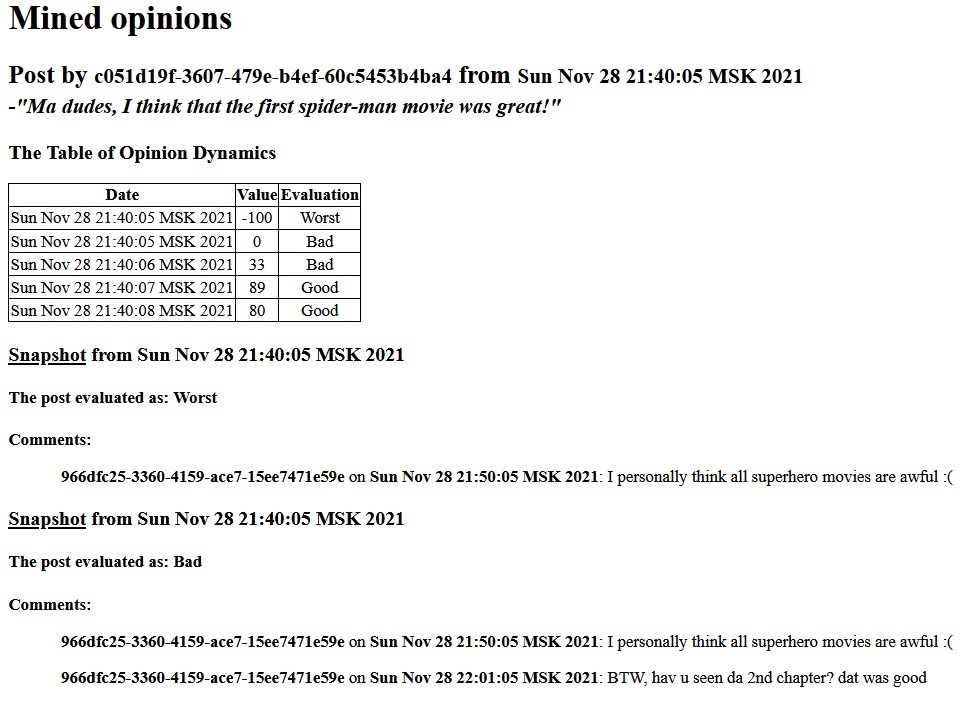
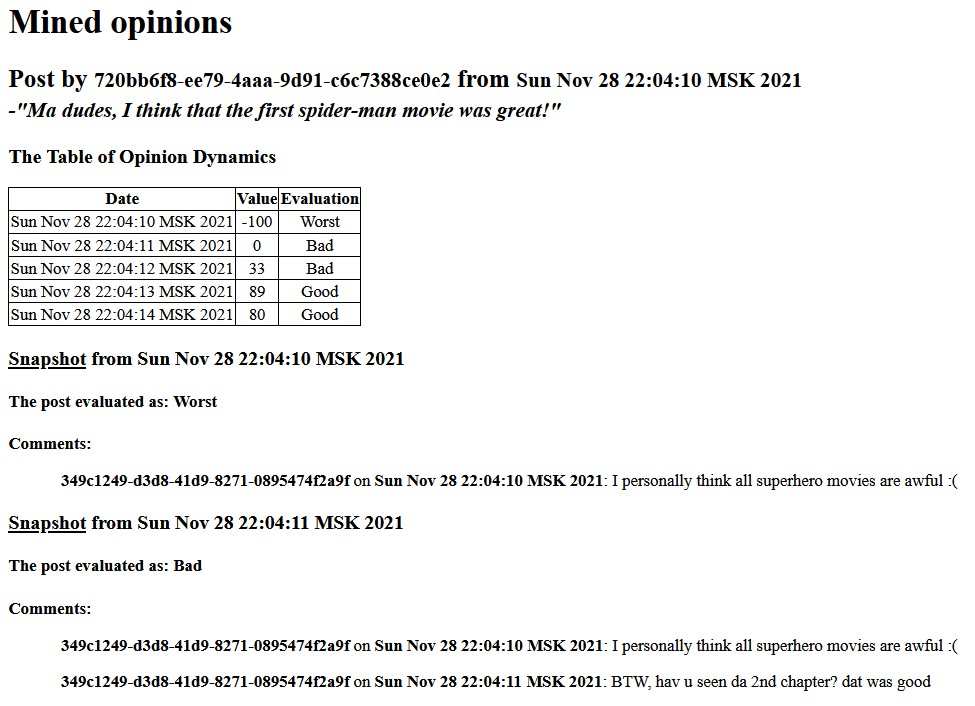
upd

diff --git a/CodeForAssignments1-2/src/Main.java b/CodeForAssignments1-2/src/Main.java
@@ -46,31 +46,26 @@ public class Main {
         //Likes act like multiplier of reactions. When one likes a comment it means they agree with that reaction
 
         Comment c1 = u2.createComment("I personally think all superhero movies are awful :(", post);
-        c1.date.setTime(post.date.getTime() + (10 * 60 * 1000));
         RPSS.makeSnapshot(post); //save state of the mined opinion
-        Thread.sleep(700);
+        Thread.sleep(1000);
 
         Comment c2 = u2.createComment("BTW, hav u seen da 2nd chapter? dat was good", post);
-        c2.date.setTime(post.date.getTime() + (21 * 60 * 1000));
         RPSS.makeSnapshot(post); //save state of the mined opinion
-        Thread.sleep(700);
+        Thread.sleep(1000);
 
         Comment c3 = u3.createComment("Man, the movie is really cool, just watched it on the last weekends", post);
-        c3.date.setTime(post.date.getTime() + (42 * 60 * 1000));
         RPSS.makeSnapshot(post); //save state of the mined opinion
-        Thread.sleep(700);
+        Thread.sleep(1000);
 
         //export history to a first file
         Files.write(Paths.get("output1.json"),RPSS.saveToJson().getBytes(StandardCharsets.UTF_8));
 
         Comment c4 = u3.createComment("The actors play good and the message behind is valuable", post);
-        c4.date.setTime(post.date.getTime() + (7123 * 60 * 1000));
         c4.likes = 7;
         RPSS.makeSnapshot(post); //save state of the mined opinion
-        Thread.sleep(700);
+        Thread.sleep(1000);
 
         Comment c5 = u4.createComment("Although the graphics was poor, the plot is cool :)", post);
-        c5.date.setTime(post.date.getTime() + (8123 * 60 * 1000));
         c5.likes = 2;
         RPSS.makeSnapshot(post); //save state of the mined opinion
 

diff --git a/CodeForAssignments1-2/README3.md b/CodeForAssignments1-2/README3.md
@@ -10,7 +10,7 @@ As it was before, the evaluation works in the following way:
 5. The evaluations can be seen in a web browser.
 6. **From now on, HTML reports show the dynamics of the opinions.**
 
-### New feature: Opinion Dynamics over time
+### New feature: Show Opinion Dynamics over time
 
 ![assignment3_usecase](https://github.com/ar7ch/iu-ssad/blob/master/assignment3/uml/assignment3_usecase.png?raw=true)
 
@@ -63,13 +63,11 @@ Below is the description of the most important classes for the implementation of
 Below is the example of memento pattern usage from the testing class Main.java. The code saves the state of the mined opinion. When needed, the code restores the desired state, converts it to the HTML format then passes it to a Web Browser.
 ```java
  Comment c4 = u3.createComment("The actors play good and the message behind is valuable", post);
- c4.date.setTime(post.date.getTime() + (7123 * 60 * 1000));
  c4.likes = 7;
  RPSS.makeSnapshot(post); //save state of the mined opinion
- Thread.sleep(700);
+ Thread.sleep(1000);
 
  Comment c5 = u4.createComment("Although the graphics was poor, the plot is cool :)", post);
- c5.date.setTime(post.date.getTime() + (8123 * 60 * 1000));
  c5.likes = 2;
  RPSS.makeSnapshot(post); //save state of the mined opinion
 
